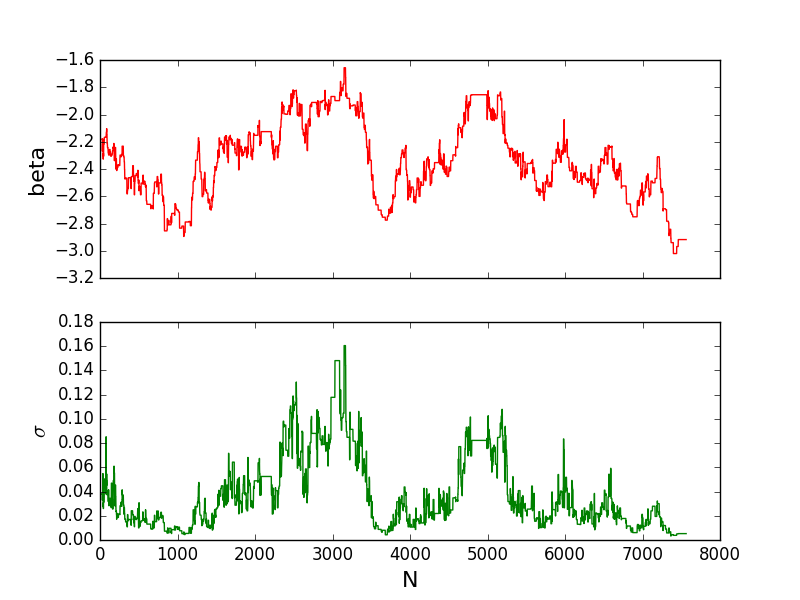
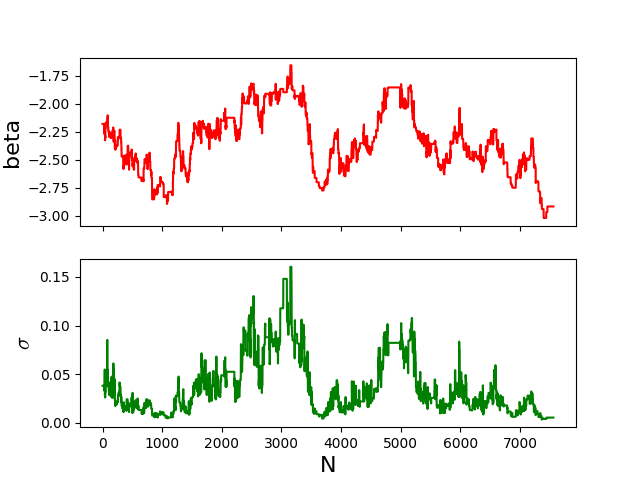
adding log sampling

diff --git a/analyse_mcmc.py b/analyse_mcmc.py
@@ -9,70 +9,80 @@ import mcmc_function as fmcmc
 makeplot = True
 source ="pickle"
 object = "HE0435"
-picklepath = "./HE0435/save/"
+
+picklepath = "./"+object+"/save/"
+sim_path = "./"+object+"/simulation_log/"
+plot_path = sim_path + "figure/"
+display = True
 kntstp = 40
 ml_kntstep =360
 picklename ="opt_spl_ml_"+str(kntstp)+"-"+str(ml_kntstep) + "knt.pkl"
-burntime = 1000
-niter = 10000
-rdm_walk = 'exp'
-nlcs = 0 #numero de la courbe a traiter
+burntime = 0
+niter = 10
+rdm_walk = 'log'
+nlcs = [0] #curve to process, can be a list of indices
 
-if source == "pickle":
-    theta = pickle.load(open("./MCMC_test/theta_walk_"+ object + "_" + picklename + "_" + str(niter) + "_"+rdm_walk+"_"+str(nlcs)+".pkl", "rb"))
-    chi2 = pickle.load(open("./MCMC_test/chi2_walk_"+ object + "_" + picklename + "_" + str(niter) + "_"+rdm_walk+"_"+str(nlcs)+".pkl", "rb"))
+for i in nlcs :
+    if source == "pickle":
+        theta = pickle.load(open(sim_path + "theta_walk_"+ object + "_" + picklename[:-4] + "_" + str(niter) + "_"+rdm_walk+"_"+str(i)+".pkl", "rb"))
+        chi2 = pickle.load(open(sim_path + "chi2_walk_"+ object + "_" + picklename[:-4] + "_" + str(niter) + "_"+rdm_walk+"_"+str(i)+".pkl", "rb"))
 
-if source == "rt_file":
-    rt_filename = './MCMC_test/rt_file' + object + "_" + picklename + "_" + str(niter) + "_"+ rdm_walk+ '.txt'
-    vec = np.loadtxt(rt_filename, delimiter=',')
-    vec = np.asarray(vec)
-    theta = vec[burntime:,0:2]
-    chi2 = vec[burntime:,2]
+    if source == "rt_file":
+        rt_filename = sim_path + 'rt_file_' + object +"_"+ picklename[:-4]  + "_" + str(niter)+"_"+rdm_walk +"_"+str(i)+'.txt'
+        vec = np.loadtxt(rt_filename, delimiter=',')
+        vec = np.asarray(vec)
+        theta = vec[burntime:,0:2]
+        chi2 = vec[burntime:,2]
 
-theta = np.asarray(theta)
-chi2 = np.asarray(chi2)
+    theta = np.asarray(theta)
+    chi2 = np.asarray(chi2)
 
-(lcs, spline) = pycs.gen.util.readpickle(picklepath + picklename)
+    (lcs, spline) = pycs.gen.util.readpickle(picklepath + picklename)
 
-#Control the residuals :
-rls = pycs.gen.stat.subtract(lcs, spline)
-pycs.sim.draw.saveresiduals(lcs, spline)
+    #Control the residuals :
+    rls = pycs.gen.stat.subtract(lcs, spline)
+    pycs.sim.draw.saveresiduals(lcs, spline)
+    print 'Curve ', i
+    print 'Residuals from the fit : '
+    print pycs.gen.stat.mapresistats(rls)[i]
+    fit_sigma = pycs.gen.stat.mapresistats(rls)[i]["std"]
+    fit_zruns = pycs.gen.stat.mapresistats(rls)[i]["zruns"]
+    fit_nruns = pycs.gen.stat.mapresistats(rls)[i]["nruns"]
+    fit_vector = [fit_zruns,fit_sigma]
 
-print 'Residuals from the fit : '
-print pycs.gen.stat.mapresistats(rls)[nlcs]
-fit_sigma = pycs.gen.stat.mapresistats(rls)[nlcs]["std"]
-fit_zruns = pycs.gen.stat.mapresistats(rls)[nlcs]["zruns"]
-fit_nruns = pycs.gen.stat.mapresistats(rls)[nlcs]["nruns"]
-fit_vector = [fit_zruns,fit_sigma]
+    min_chi2 = np.min(chi2)
+    N_min = np.argmin(chi2)
+    min_theta = theta[N_min,:]
 
-min_chi2 = np.min(chi2)
-N_min = np.argmin(chi2)
-min_theta = theta[N_min,:]
+    print "min Chi2 : ", min_chi2
+    print "min theta :", min_theta
+    mean_mini,sigma_mini = fmcmc.make_mocks_para(min_theta,lcs,spline,n_curve_stat=64, recompute_spline= True, knotstep=kntstp, nlcs=i, verbose=True)
+    print "compared to sigma, nruns, zruns : "+ str(fit_sigma) + ', ' + str(fit_nruns) + ', ' + str(fit_zruns)
+    print "For minimum Chi2, we are standing at " + str(np.abs(mean_mini[0]-fit_zruns)/sigma_mini[0]) + " sigma [zruns]"
+    print "For minimum Chi2, we are standing at " + str(np.abs(mean_mini[1]-fit_sigma)/sigma_mini[1]) + " sigma [sigma]"
 
-print "min Chi2 : ", min_chi2
-print "min theta :", min_theta
-mean_mini,sigma_mini = fmcmc.make_mocks_para(min_theta,lcs,spline,ncurve=100, recompute_spline= True, knotstep=kntstp, nlcs=nlcs, verbose=True)
-print "compared to sigma, nruns, zruns : "+ str(fit_sigma) + ', ' + str(fit_nruns) + ', ' + str(fit_zruns)
-print "For minimum Chi2, we are standing at " + str(np.abs(mean_mini[0]-fit_zruns)/sigma_mini[0]) + " sigma [zruns]" 
-print "For minimum Chi2, we are standing at " + str(np.abs(mean_mini[1]-fit_sigma)/sigma_mini[1]) + " sigma [sigma]"
+    if makeplot :
+        theta[:,1] = np.log10(theta[:,1])
+        fig1 = corner.corner(theta, labels=["$beta$", "log $\sigma$"])
 
-if makeplot :
-    fig1 = corner.corner(theta, labels=["$beta$", "$\sigma$"])
+        fig2 = plt.figure(2)
+        x = np.arange(len(chi2))
+        plt.xlabel('N', fontdict={"fontsize" : 16})
+        plt.ylabel('$\chi^2$', fontdict={"fontsize" : 16})
+        plt.plot(x,chi2)
 
-    plt.figure(2)
-    x = np.arange(len(chi2))
-    plt.xlabel('N', fontdict={"fontsize" : 16})
-    plt.ylabel('$\chi^2$', fontdict={"fontsize" : 16})
-    plt.plot(x,chi2)
-    plt.savefig('./MCMC_test/chi2-random_'+ object+ "_" + picklename + "_" + str(niter) +"_"+rdm_walk+"_"+str(nlcs)+ '.png')
 
-    fig3, axe = plt.subplots(2,1,sharex=True)
-    axe[0].plot(x,theta[:,0],'r')
-    axe[1].plot(x,theta[:,1],'g')
-    plt.xlabel('N', fontdict={"fontsize" : 16})
-    axe[0].set_ylabel('beta', fontdict={"fontsize" : 16})
-    axe[1].set_ylabel('$\sigma$', fontdict={"fontsize" : 16})
-    plt.savefig('./MCMC_test/beta-sigma-random_'+ object+ "_" + picklename + "_" + str(niter) + "_"+rdm_walk+"_"+str(nlcs)+'.png')
-    plt.show()
+        fig3, axe = plt.subplots(2,1,sharex=True)
+        axe[0].plot(x,theta[:,0],'r')
+        axe[1].plot(x,theta[:,1],'g')
+        plt.xlabel('N', fontdict={"fontsize" : 16})
+        axe[0].set_ylabel('beta', fontdict={"fontsize" : 16})
+        axe[1].set_ylabel('$log \sigma$', fontdict={"fontsize" : 16})
 
-    fig1.savefig("./MCMC_test/cornerplot_" +object+ "_" + picklename + "_" + str(niter) + "_"+rdm_walk+"_"+str(nlcs)+'.png')
+        fig1.savefig(plot_path +"cornerplot_" +object+ "_" + picklename[:-4] + "_" + str(niter) + "_"+rdm_walk+"_"+str(i)+'.png')
+        fig2.savefig(plot_path + 'chi2-random_'+ object+ "_" + picklename[:-4] + "_" + str(niter) +"_"+rdm_walk+"_"+str(i)+ '.png')
+        fig3.savefig(plot_path +'beta-sigma-random_'+ object+ "_" + picklename[:-4] + "_" + str(niter) + "_"+rdm_walk+"_"+str(i)+'.png')
+
+        if display :
+            plt.show()
+

diff --git a/mcmc_function.py b/mcmc_function.py
@@ -7,11 +7,12 @@ import multiprocessing
 
 
 def mcmc_metropolis(theta, lcs, fit_vector, spline, gaussian_step=[0.05, 0.02], knotstep=None, niter=1000,
-                    burntime=100, savefile=None, nlcs=0, recompute_spline=False, para=True, rdm_walk='gaussian', max_core = 16):
+                    burntime=100, savefile=None, nlcs=0, recompute_spline=False, para=True, rdm_walk='gaussian', max_core = 16,
+                    n_curve_stat = 32):
     theta_save = []
     chi2_save = []
     chi2_current = compute_chi2(theta, lcs, fit_vector, spline, knotstep=knotstep, nlcs=nlcs,
-                                recompute_spline=recompute_spline, max_core = max_core)
+                                recompute_spline=recompute_spline, max_core = max_core, n_curve_stat = n_curve_stat)
     t = time.time()
 
     for i in range(niter):
@@ -22,13 +23,15 @@ def mcmc_metropolis(theta, lcs, fit_vector, spline, gaussian_step=[0.05, 0.02], 
             theta_new = make_random_step_gaussian(theta, gaussian_step)
         elif rdm_walk == 'exp':
             theta_new = make_random_step_exp(theta, gaussian_step)
+        elif rdm_walk == 'log':
+            theta_new = make_random_step_log(theta, gaussian_step)
 
         if not prior(theta_new):
             continue
 
         print i,theta_new
         chi2_new = compute_chi2(theta_new, lcs, fit_vector, spline, knotstep=knotstep, nlcs=nlcs,
-                                recompute_spline=recompute_spline, para=para, max_core = max_core)
+                                recompute_spline=recompute_spline, para=para, max_core = max_core,n_curve_stat = n_curve_stat)
         ratio = np.exp((-chi2_new + chi2_current) / 2.0);
 
         if np.random.rand() < ratio:
@@ -49,7 +52,7 @@ def mcmc_metropolis(theta, lcs, fit_vector, spline, gaussian_step=[0.05, 0.02], 
 
 
 def prior(theta):
-    if -4.0 < theta[0] < -1.0 and 0 < theta[1] < 0.5:
+    if -8.0 < theta[0] < -1.0 and 0 < theta[1] < 0.5:
         return True
     else:
         return False
@@ -57,6 +60,12 @@ def prior(theta):
 
 def make_random_step_gaussian(theta, sigma_step):
     return theta + sigma_step * np.random.randn(2)
+
+def make_random_step_log(theta, sigma_step):
+    s = theta[1]
+    s = np.log10(s) + sigma_step[1] * np.random.randn()
+    s = 10.0**s
+    return [theta[0] + sigma_step[0] * np.random.randn(), s]
 
 
 def make_random_step_exp(theta, sigma_step):
@@ -70,7 +79,7 @@ def make_random_step_exp(theta, sigma_step):
         return [theta[0] + sigma_step[0] * np.random.randn(), theta[1] - np.random.exponential(scale=sigma_step[1])]
 
 
-def make_mocks(theta, lcs, spline, ncurve=32, verbose=False, knotstep=None, recompute_spline=True, nlcs=0,
+def make_mocks(theta, lcs, spline, n_curve_stat=32, verbose=False, knotstep=None, recompute_spline=True, nlcs=0,
                display=False):
     mocklcs = []
     mockrls = []
@@ -79,7 +88,7 @@ def make_mocks(theta, lcs, spline, ncurve=32, verbose=False, knotstep=None, reco
     sigmas = []
     nruns = []
 
-    for i in range(ncurve):
+    for i in range(n_curve_stat):
 
         mocklcs.append(pycs.sim.draw.draw([lcs[nlcs]], spline, tweakml=lambda x: pycs.sim.twk.tweakml(x, beta=theta[0],
                                                                                                       sigma=theta[1],
@@ -113,8 +122,8 @@ def make_mocks(theta, lcs, spline, ncurve=32, verbose=False, knotstep=None, reco
     return [np.mean(zruns), np.mean(sigmas)], [np.std(zruns), np.std(sigmas)]
 
 
-def make_mocks_para(theta, lcs, spline, ncurve=32, verbose=False, knotstep=None, recompute_spline=True, nlcs=0,
-                    display=False, max_core = 16):
+def make_mocks_para(theta, lcs, spline, verbose=False, knotstep=None, recompute_spline=True, nlcs=0,
+                    display=False, max_core = 16, n_curve_stat = 32):
     stat = []
     zruns = []
     sigmas = []
@@ -122,7 +131,7 @@ def make_mocks_para(theta, lcs, spline, ncurve=32, verbose=False, knotstep=None,
 
     pool = multiprocessing.Pool(processes = max_core)
     job_kwarg = {'knotstep': knotstep, 'recompute_spline': recompute_spline, 'nlcs': nlcs}
-    job_args = [(theta, lcs, spline, job_kwarg) for j in range(ncurve)]
+    job_args = [(theta, lcs, spline, job_kwarg) for j in range(n_curve_stat)]
 
     stat_out = pool.map(fct_para_aux, job_args)
     pool.close()
@@ -141,13 +150,14 @@ def make_mocks_para(theta, lcs, spline, ncurve=32, verbose=False, knotstep=None,
     return [np.mean(zruns), np.mean(sigmas)], [np.std(zruns), np.std(sigmas)]
 
 
-def compute_chi2(theta, lcs, fit_vector, spline, nlcs=0, knotstep=40, recompute_spline=False, para=True, max_core = 16):
+def compute_chi2(theta, lcs, fit_vector, spline, nlcs=0, knotstep=40, recompute_spline=False, para=True, max_core = 16, n_curve_stat = 32):
     chi2 = 0.0
     if para:
         out, error = make_mocks_para(theta, lcs, spline, nlcs=nlcs, recompute_spline=recompute_spline,
-                                     knotstep=knotstep, max_core = max_core)
+                                     knotstep=knotstep, max_core = max_core, n_curve_stat= n_curve_stat)
     else:
-        out, error = make_mocks(theta, lcs, spline, nlcs=nlcs, recompute_spline=recompute_spline, knotstep=knotstep)
+        out, error = make_mocks(theta, lcs, spline, nlcs=nlcs, recompute_spline=recompute_spline,
+                                knotstep=knotstep, n_curve_stat = n_curve_stat)
 
     for i in range(len(out)):
         chi2 += (fit_vector[i] - out[i]) ** 2 / error[i] ** 2

diff --git a/find_param_metro.py b/find_param_metro.py
@@ -5,6 +5,7 @@ import pycs.regdiff
 import pickle
 import time
 import mcmc_function as mcmc
+import os
 
 start_time = time.time()
 
@@ -12,15 +13,24 @@ object = "HE0435"
 kntstp = 40
 ml_kntstep =360
 picklepath = "./"+object+"/save/"
-picklename ="opt_spl_ml_"+str(kntstp)+"-"+str(ml_kntstep) + "knt.pkl"
-niter = 10000
-nburn = 1000
-nlcs = 3 #numero de la courbe a traiter
-rdm_walk = 'exp'
-max_process = 16
+sim_path = "./"+object+"/simulation_log/"
+plot_path = sim_path + "figure/"
+if not os.path.exists(sim_path):
+    os.mkdir(sim_path)
+if not os.path.exists(plot_path):
+    os.mkdir(plot_path)
 
-open('./MCMC_test/rt_file_' + object +"_"+ picklename + "_" + str(niter)+"_"+rdm_walk +"_"+str(nlcs)+'.txt', 'w').close() # to clear the file
-rt_file = open('./MCMC_test/rt_file_' + object +"_"+ picklename + "_" + str(niter)+"_"+rdm_walk +"_"+str(nlcs)+'.txt','a')
+
+picklename ="opt_spl_ml_"+str(kntstp)+"-"+str(ml_kntstep) + "knt.pkl"
+niter = 10
+nburn = 0
+nlcs = 0 #numero de la courbe a traiter
+rdm_walk = 'log'
+n_curve_stat = 8 #number of curve to optimise to compute the statistic.
+max_process = 8
+
+open(sim_path + 'rt_file_' + object +"_"+ picklename[:-4] + "_" + str(niter)+"_"+rdm_walk +"_"+str(nlcs)+'.txt', 'w').close() # to clear the file
+rt_file = open(sim_path + 'rt_file_' + object +"_"+ picklename[:-4]  + "_" + str(niter)+"_"+rdm_walk +"_"+str(nlcs)+'.txt','a')
 
 (lcs, spline) = pycs.gen.util.readpickle(picklepath + picklename)
 
@@ -32,18 +42,18 @@ fit_sigma = pycs.gen.stat.mapresistats(rls)[nlcs]["std"]
 fit_zruns = pycs.gen.stat.mapresistats(rls)[nlcs]["zruns"]
 fit_nruns = pycs.gen.stat.mapresistats(rls)[nlcs]["nruns"]
 fit_vector = [fit_zruns,fit_sigma]
-sigma_step = [0.05,0.005] # standard deviation for gaussian step
+sigma_step = [0.05,0.05] # standard deviation for gaussian step
 pycs.sim.draw.saveresiduals(lcs, spline)
 
 initial_position = [-1.9,0.1]
 theta_walk, chi2_walk = mcmc.mcmc_metropolis(initial_position, lcs, fit_vector,spline, gaussian_step = sigma_step,
-                                 niter = niter, burntime = nburn, savefile = rt_file, nlcs=0, recompute_spline= True,
+                                 niter = niter, burntime = nburn, savefile = rt_file, nlcs=nlcs, recompute_spline= True,
                                   para= True, knotstep = kntstp, rdm_walk=rdm_walk, max_core = max_process)
 
 print("--- %s seconds ---" % (time.time() - start_time))
 
-pickle.dump(theta_walk, open("./MCMC_test/theta_walk_" + object +"_"+ picklename + "_" + str(niter)+"_"+rdm_walk + "_"+str(nlcs)+".pkl", "wb" ))
-pickle.dump(chi2_walk, open("./MCMC_test/chi2_walk_" + object +"_"+ picklename + "_" + str(niter) +"_"+rdm_walk + "_"+str(nlcs)+".pkl", "wb" ))
+pickle.dump(theta_walk, open(sim_path+"theta_walk_" + object +"_"+ picklename[:-4] + "_" + str(niter)+"_"+rdm_walk + "_"+str(nlcs)+".pkl", "wb" ))
+pickle.dump(chi2_walk, open(sim_path+"chi2_walk_" + object +"_"+ picklename[:-4] + "_" + str(niter) +"_"+rdm_walk + "_"+str(nlcs)+".pkl", "wb" ))
 
 
 

diff --git a/find_param_minimization.py b/find_param_minimization.py
@@ -1,4 +1,4 @@
-#Find micro lensing Power spectrum using MCMC algo
+#Find micro lensing Power spectrum using minimization algorythm algo
 
 import pycs
 import pycs.regdiff
